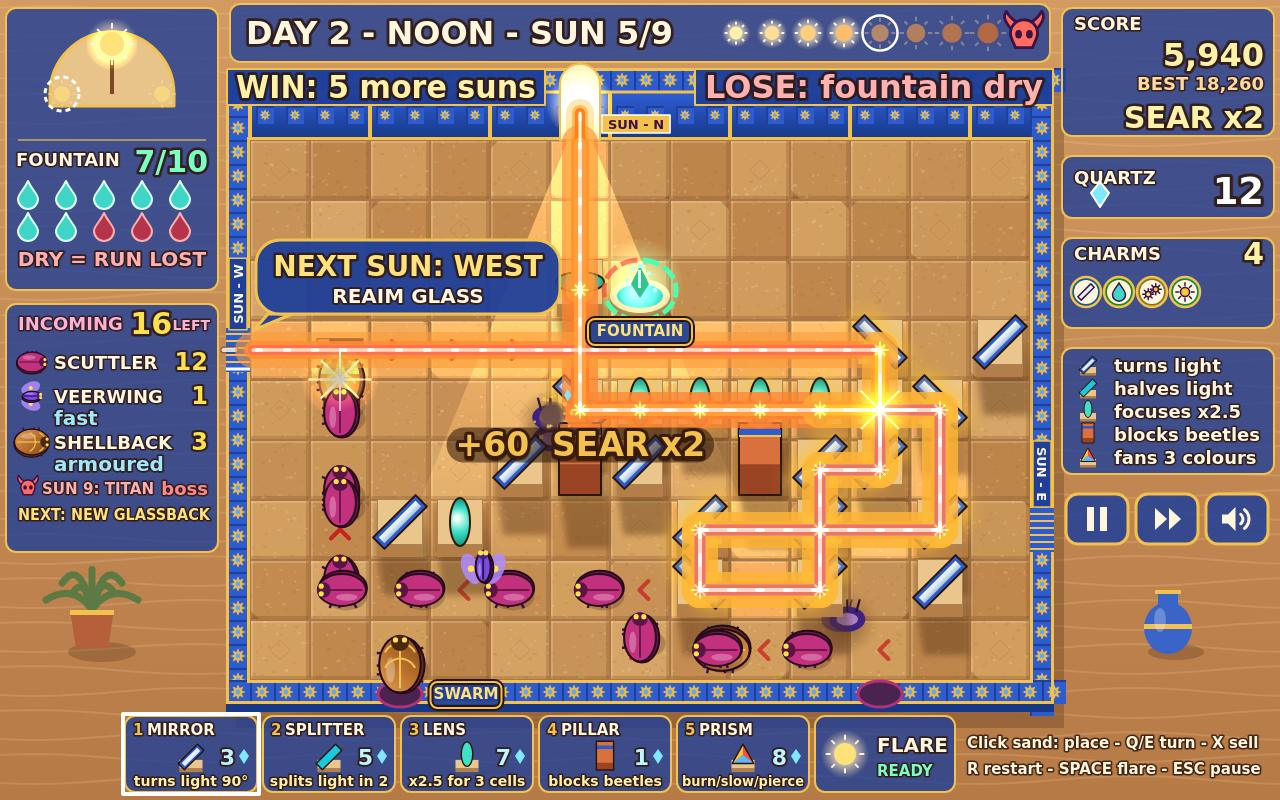
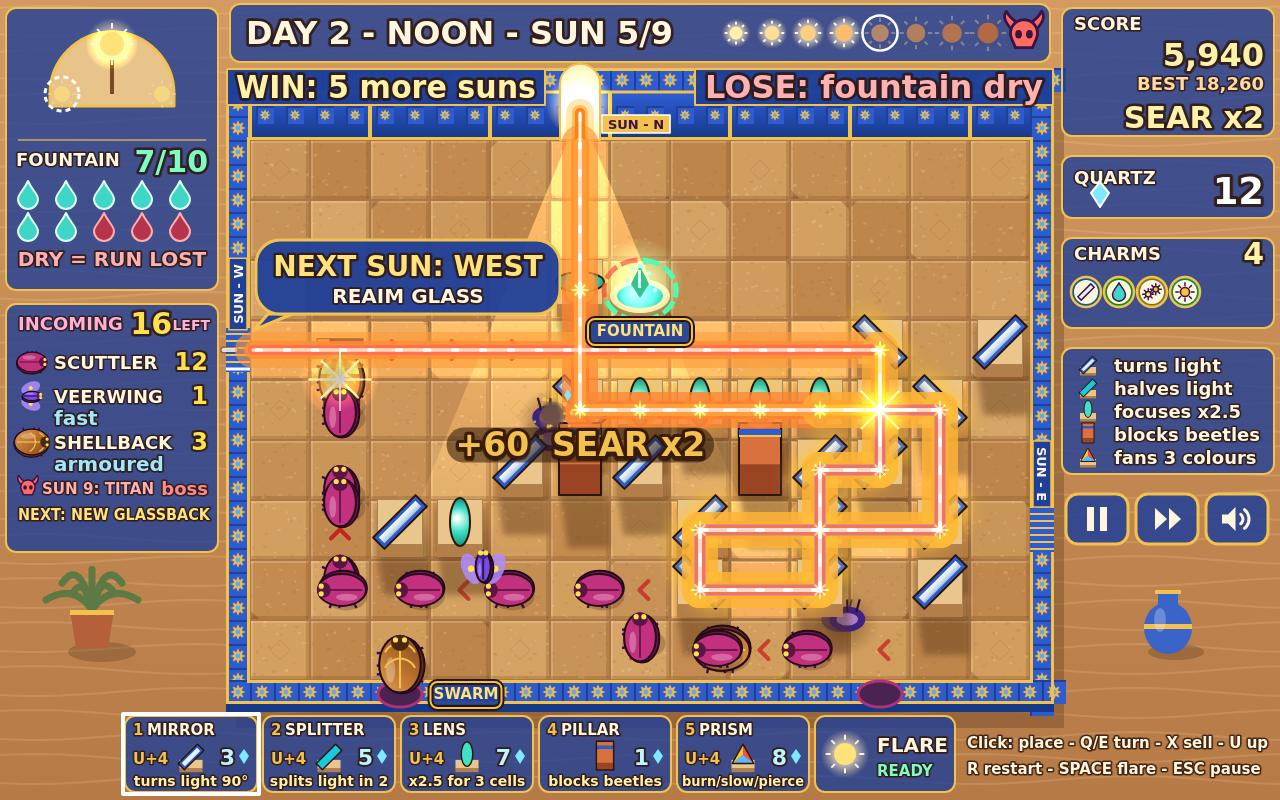
Glass upgrades: U takes a placed glass to Lv2 (4 quartz) and Lv3 (7) with real per-level beam effects; pips, card price, tooltip and key line; balance before/after in NOTES (not easier)

diff --git a/game/src/render/hud.js b/game/src/render/hud.js
@@ -2,11 +2,11 @@
 // the event banner, the 9-sun track with HOLD n MORE SUNS, the sun dial (NOW / NEXT), fountain
 // droplets with the lose rule, SEAR, score with BEST, quartz, INCOMING (with the Titan's row),
 // glass charms, the hovered piece's tooltip and keys, the event log, and the hotbar.
-import { BEAM, ENEMIES, NAMES, PIECES, PIECE_ORDER, WAVE_COUNT, enemyRuleTag } from '../config.js';
+import { BEAM, ENEMIES, NAMES, PIECES, PIECE_ORDER, UPGRADES, WAVE_COUNT, enemyRuleTag } from '../config.js';
 import { boonById } from '../draft.js';
 import { beamModsFor } from '../beams.js';
 import { chainMultiplier } from '../combat.js';
-import { enemiesRemaining, liftRefund, pieceCost, pieceUnlocked } from '../sim.js';
+import { enemiesRemaining, liftRefund, pieceCost, pieceUnlocked, upgradeCost } from '../sim.js';
 import { titanStatus, winLoseParts } from '../announce.js';
 import { sunApertureFor } from '../sun.js';
 import { nextSunPreview, waveRoster } from '../waves.js';
@@ -388,15 +388,16 @@ function drawTooltip(ctx, run, ui, y0) {
   ctx.globalAlpha = 0.85;
   drawPieceIcon(ctx, type, RIGHT_X + 30, y0 + 40);
   ctx.globalAlpha = 1;
-  text(ctx, `${PIECES[type].name}`, RIGHT_X + 58, y0 + 26, 15, GOLD, 'left', 900);
+  text(ctx, hover && hover.type !== 'pillar' ? `${PIECES[type].name} Lv${hover.level ?? 1}` : PIECES[type].name, RIGHT_X + 58, y0 + 26, 15, GOLD, 'left', 900);
   text(ctx, `${pieceCost(run, type)} ${NAMES.currency.toLowerCase()}`, RIGHT_X + 58, y0 + 46, 15, '#BDF4FF', 'left', 800);
   fitLine(ctx, PIECES[type].short, RIGHT_X + 12, y0 + 74, PANEL_W - 20, 15, INK);
+  const up = hover ? upgradeCost(hover) : null;
   const keys = hover
-    ? `${hover.type === 'pillar' ? '' : 'Q/E turn - '}X sell +${liftRefund(run, hover)}`
+    ? [`${hover.type === 'pillar' ? '' : 'Q/E turn - '}X sell +${liftRefund(run, hover)}${up !== null ? ` - U +${up}` : ''}`, `X sell +${liftRefund(run, hover)}${up !== null ? ` - U up ${up}` : ''}`]
     : `${PIECE_ORDER.indexOf(type) + 1} select - click place`;
   // A placement the rules refuse says why (e.g. "Would seal the fountain").
   if (ui.hintBad && ui.hint) fitLine(ctx, ui.hint, RIGHT_X + 12, y0 + 96, PANEL_W - 20, 15, '#FF8A8A');
-  else text(ctx, keys, RIGHT_X + 12, y0 + 96, 15, '#FFF2A8', 'left', 900);
+  else fitLine(ctx, keys, RIGHT_X + 12, y0 + 96, PANEL_W - 20, 15, '#FFF2A8');
 }
 
 
@@ -624,7 +625,7 @@ function drawSpeaker(ctx, x, y, muted, color) {
 
 /** Two short key lines beside the hotbar during a sun. */
 function drawKeyLine(ctx, x, ui) {
-  text(ctx, 'Click sand: place - Q/E turn - X sell', x, HOTBAR.y + 32, 15, INK, 'left', 800);
+  fitLine(ctx, ['Click sand: place - Q/E turn - X sell - U upgrade', 'Click: place - Q/E turn - X sell - U upgrade', 'Click: place - Q/E turn - X sell - U up', 'Click sand: place - Q/E turn - X sell'], x, HOTBAR.y + 32, 1272 - x, 15, INK);
   if (ui.restartArmed) text(ctx, 'PRESS R AGAIN TO RESTART', x, HOTBAR.y + 58, 15, '#FF8A8A', 'left', 900);
   else text(ctx, 'R restart - SPACE flare - ESC pause', x, HOTBAR.y + 58, 15, INK, 'left', 800);
 }
@@ -703,6 +704,10 @@ function drawHotbar(ctx, run, ui) {
       ctx.lineTo(x + HOTBAR.w - 18, HOTBAR.y + 40);
       ctx.closePath();
       ctx.fill();
+    }
+    // Glass upgrades with U once placed: the Lv2 price, left of the piece.
+    if (type !== 'pillar') {
+      text(ctx, `U+${UPGRADES.cost[0]}`, x + 8, HOTBAR.y + 48, 15, GOLD, 'left', 900);
     }
     ctx.save();
     ctx.translate(x + HOTBAR.w / 2, HOTBAR.y + 41);

diff --git a/game/src/beams.js b/game/src/beams.js
@@ -2,7 +2,7 @@
 // lenses, prisms and pillars. Produces the power and tint on every cell (what burns beetles),
 // the beam legs to draw, and the bounce points that get a starburst. Glassback shells stop
 // any light but gold. Loops are cut by tracking visited (cell, direction) pairs.
-import { BEAM, CHARM_FX, DX, DY } from './config.js';
+import { BEAM, CHARM_FX, DX, DY, UPGRADES } from './config.js';
 import { cellIndex, inBounds, isShrineCell, pieceAt } from './grid.js';
 
 /** Beam tints (bit flags on lit cells): plain sunlight is 0. */
@@ -31,6 +31,11 @@ export function prismFan(rot, dir) {
     { dir: rot % 2 === 0 ? left : right, tint: TINT_RED },
     { dir: rot % 2 === 0 ? right : left, tint: TINT_BLUE },
   ];
+}
+
+/** A piece's upgrade level, 1-3 (pieces from before upgrades existed are Lv1). */
+export function levelOf(piece) {
+  return piece.level ?? 1;
 }
 
 /** Light modifiers from boons: { power, bounceLoss, lensMult, lensReach, prismShare }. */
@@ -105,20 +110,20 @@ export function traceBeams(grid, aperture, mods, blockers = null) {
         if (piece.type === 'mirror') {
           bursts.push({ x: cx, y: cy, power, kind: 'mirror' });
           dir = reflectDirection(piece.rot, dir);
-          power *= 1 - mods.bounceLoss;
+          power *= 1 - mods.bounceLoss * UPGRADES.mirror.lossScale[levelOf(piece) - 1];
         } else if (piece.type === 'splitter') {
           bursts.push({ x: cx, y: cy, power, kind: 'splitter' });
           const turned = reflectDirection(piece.rot, dir);
-          power *= 0.5;
+          power *= UPGRADES.splitter.half[levelOf(piece) - 1];
           rays.push({ c: c + DX[turned], r: r + DY[turned], dir: turned, power, focus, tint, x: cx, y: cy });
         } else if (piece.type === 'lens') {
           bursts.push({ x: cx, y: cy, power: power * 0.6, kind: 'lens' });
-          power *= mods.lensMult;
+          power *= mods.lensMult + UPGRADES.lens.multAdd[levelOf(piece) - 1];
           focus = mods.lensReach + 1;
         } else if (piece.type === 'prism') {
           bursts.push({ x: cx, y: cy, power, kind: 'prism' });
           const fan = prismFan(piece.rot, dir);
-          power *= mods.prismShare;
+          power *= Math.min(0.95, mods.prismShare + UPGRADES.prism.shareAdd[levelOf(piece) - 1]);
           for (const branch of fan.slice(1)) rays.push({ c: c + DX[branch.dir], r: r + DY[branch.dir], dir: branch.dir, power, focus: 0, tint: branch.tint, x: cx, y: cy });
           tint = TINT_GOLD;
           focus = 0;

diff --git a/game/src/sim.js b/game/src/sim.js
@@ -1,8 +1,8 @@
 // The run state and its fixed-step update. Input never touches this state directly: it queues
 // orders, and stepSim applies them at the start of the next 60 Hz tick, then advances the phase
 // machine build -> wave -> draft -> build ... -> won | lost.
-import { BEAM, CHARM_FX, DIFFICULTIES, FEATS, DT, ECONOMY, FLARE_CHARGES, FOUNTAIN_MAX, PIECES, WAVE_COUNT } from './config.js';
-import { beamModsFor, traceBeams } from './beams.js';
+import { BEAM, CHARM_FX, DIFFICULTIES, FEATS, DT, ECONOMY, FLARE_CHARGES, FOUNTAIN_MAX, PIECES, UPGRADES, WAVE_COUNT } from './config.js';
+import { beamModsFor, levelOf, traceBeams } from './beams.js';
 import { sunApertureFor } from './sun.js';
 import { moveEnemies, shellBlockers, spawnEnemy } from './enemies.js';
 import { buildWaveSchedule } from './waves.js';
@@ -78,6 +78,12 @@ export function pieceCost(run, type) {
 }
 
 /** Quartz returned when lifting a piece: all of it if placed this build phase, else half. */
+/** The price of a placed piece's next level, or null (pillars and Lv3 glass cannot upgrade). */
+export function upgradeCost(piece) {
+  if (!piece || piece.type === 'pillar' || levelOf(piece) >= 3) return null;
+  return UPGRADES.cost[levelOf(piece) - 1];
+}
+
 export function liftRefund(run, piece) {
   return piece.placedWave === run.waveIndex ? piece.paid : Math.floor(piece.paid * ECONOMY.oldPieceRefund);
 }
@@ -125,6 +131,21 @@ function applyOrder(run, order) {
       run.flow = buildFlowField(run.grid);
       refreshLight(run);
       emit(run, { type: 'lifted', c: order.c, r: order.r });
+      return;
+    }
+    case 'upgrade': {
+      const piece = pieceAt(run.grid, order.c, order.r);
+      const cost = upgradeCost(piece);
+      if (cost === null || !(building || run.phase === 'wave')) return;
+      if (run.quartz < cost) {
+        emit(run, { type: 'denied', c: order.c, r: order.r, reason: 'Not enough quartz' });
+        return;
+      }
+      run.quartz -= cost;
+      piece.level = levelOf(piece) + 1;
+      piece.paid += cost;
+      refreshLight(run);
+      emit(run, { type: 'upgraded', c: order.c, r: order.r, level: piece.level });
       return;
     }
     case 'startWave':

diff --git a/game/index.html b/game/index.html
@@ -45,7 +45,7 @@
     <div class="sheet">
       <h2>HOW TO PLAY</h2>
       <div class="howto-cols">
-        <div><h3>1. BUILD</h3><canvas class="howto-pic" width="240" height="120" data-pic="build"></canvas><p>Spend quartz on glass. <b>1</b> Mirror bounces light, <b>2</b> Splitter halves it both ways, <b>3</b> Lens focuses x2.5 for 3 cells, <b>4</b> Pillar blocks beetles, <b>5</b> Prism (day 2) fans red burn, blue slow, gold pierce. Click to place, <b>Q/E</b> or wheel to turn, right-click or <b>X</b> to sell. You can never wall off the Sun Fountain.</p></div>
+        <div><h3>1. BUILD</h3><canvas class="howto-pic" width="240" height="120" data-pic="build"></canvas><p>Spend quartz on glass. <b>1</b> Mirror bounces light, <b>2</b> Splitter halves it both ways, <b>3</b> Lens focuses x2.5 for 3 cells, <b>4</b> Pillar blocks beetles, <b>5</b> Prism (day 2) fans red burn, blue slow, gold pierce. Click to place, <b>Q/E</b> or wheel to turn, right-click or <b>X</b> to sell, <b>U</b> to upgrade a placed glass (Lv2 4 quartz, Lv3 7: stronger effect). You can never wall off the Sun Fountain.</p></div>
         <div><h3>2. BURN</h3><canvas class="howto-pic" width="240" height="120" data-pic="burn"></canvas><p>Press <b>ENTER</b>. Sunlight pours through the lit window and follows your glass. Beetles on lit cells burn. Turn glass live to chase the swarm. <b>SPACE</b> fires a Flare: double power for 3 s. Quick kills build a SEAR multiplier.</p></div>
         <div><h3>3. ADAPT</h3><canvas class="howto-pic" width="240" height="120" data-pic="adapt"></canvas><p>After each sun pick 1 of 3 glass charms. The sun moves every wave - morning east, noon north, evening west - so plan for the NEXT window on the sun dial. Shellbacks shrug off weak light: focus it. Glassback shells stop every beam but gold.</p></div>
       </div>

diff --git a/game/src/render/board.js b/game/src/render/board.js
@@ -648,6 +648,7 @@ export function drawPieces(ctx, grid, shadow, time, lit = null, next = null) {
       if (!p) continue;
       const litNow = !!lit && lit[i] > 0 && p.type !== 'pillar';
       drawPiece(ctx, p, c, r, shadow, time, 1, litNow);
+      drawLevelPips(ctx, p, c, r);
       if (!lit || p.type === 'pillar' || litNow) continue;
       const x = BOARD_X + c * CELL;
       const y = BOARD_Y + r * CELL;
@@ -667,6 +668,28 @@ export function drawPieces(ctx, grid, shadow, time, lit = null, next = null) {
         ctx.fillText(next.wall, x + CELL - 10, y + 15);
       }
     }
+  }
+}
+
+/** Upgraded glass (Lv2, Lv3) shows that many gold pips along its plinth's front. */
+export function drawLevelPips(ctx, piece, c, r) {
+  const level = piece.level ?? 1;
+  if (level < 2) return;
+  const cx = BOARD_X + c * CELL + CELL / 2;
+  const y = BOARD_Y + r * CELL + CELL - 8;
+  for (let k = 0; k < level; k++) {
+    const x = cx + (k - (level - 1) / 2) * 12;
+    ctx.fillStyle = PALETTE.gold;
+    ctx.strokeStyle = '#2A1608';
+    ctx.lineWidth = 2;
+    ctx.beginPath();
+    ctx.moveTo(x, y - 6);
+    ctx.lineTo(x + 5, y);
+    ctx.lineTo(x, y + 6);
+    ctx.lineTo(x - 5, y);
+    ctx.closePath();
+    ctx.fill();
+    ctx.stroke();
   }
 }
 

diff --git a/game/src/config.js b/game/src/config.js
@@ -146,6 +146,18 @@ export const DIFFICULTY_ORDER = ['gentle', 'normal', 'scorched'];
 /** The Sun Fountain always holds 10 HP; the run is lost when it runs dry. */
 export const FOUNTAIN_MAX = 10;
 
+/**
+ * Glass upgrades: a placed glass piece goes Lv1 -> Lv2 -> Lv3 for quartz (pillars do not upgrade).
+ * cost[k]: price of level k+2. Per level: the mirror's bounce loss is scaled (x1, x0.5, none), each
+ * splitter half keeps more light, the lens focuses harder, the prism's side branches keep more light.
+ */
+export const UPGRADES = {
+  cost: [4, 7],
+  mirror: { lossScale: [1, 0.5, 0] },
+  splitter: { half: [0.5, 0.55, 0.6] },
+  lens: { multAdd: [0, 0.3, 0.6] },
+  prism: { shareAdd: [0, 0.1, 0.2] },
+};
 export const ECONOMY = { waveQuartz: 5, waveQuartzPerWave: 1, rerollCost: 3, oldPieceRefund: 0.5 };
 export const SCORING = { perShrineHp: 50, waveClear: 100, chainWindow: 1, chainMaxMult: 5 };
 /** A won run's rank: the best tier whose score, fountain left and Titan burn time it all meets (else C). */

diff --git a/game/src/main.js b/game/src/main.js
@@ -107,6 +107,12 @@ function liftAtHover() {
   if (cell && pieceAt(app.run.grid, cell.c, cell.r)) order({ type: 'lift', c: cell.c, r: cell.r });
 }
 
+/** U: upgrade the glass under the mouse to its next level (price shown on its card and tooltip). */
+function upgradeAtHover() {
+  const cell = app.ui.hoverCell;
+  if (cell && pieceAt(app.run.grid, cell.c, cell.r)) order({ type: 'upgrade', c: cell.c, r: cell.r });
+}
+
 function selectPiece(type) {
   app.ui.selected = type;
   playSfx('click');
@@ -180,6 +186,7 @@ function handleKeyInPlay(code) {
   }
   if (digit >= 1 && digit <= PIECE_ORDER.length) selectPiece(PIECE_ORDER[digit - 1]);
   else if (code === 'KeyX') liftAtHover();
+  else if (code === 'KeyU') upgradeAtHover();
   else if (code === 'KeyQ') rotateAtHover(-1);
   else if (code === 'KeyE') rotateAtHover(1);
   else if (code === 'Space') order({ type: run.phase === 'wave' ? 'flare' : 'startWave' });

diff --git a/game/src/testhook.js b/game/src/testhook.js
@@ -225,6 +225,7 @@ export function installTestHook(app, api) {
         banner: currentBanner(run),
         bannerBox: bannerBox(run),
         frieze: lastFrieze(),
+        upgraded: run.grid.pieces.map((p, i) => (p && (p.level ?? 1) > 1 ? `${i % run.grid.cols},${Math.floor(i / run.grid.cols)}:Lv${p.level}` : null)).filter(Boolean).join(' '),
         titanBar: lastTitanBar(),
         headline: winLoseHeadline(run),
         log: run.log.join(' | '),

diff --git a/NOTES.md b/NOTES.md
@@ -417,6 +417,19 @@
   Open: a Titan frame would make a strong 5th shot but the sheet takes exactly 4; the cover now shows
   one popup (+60 SEAR x2) because the +20 that covered a Scuttler is no longer placed there.
 
+- Glass upgrades (operator 03:32Z, "visible scale"): U on a placed glass piece upgrades it Lv1 -> Lv2
+  (4 quartz) -> Lv3 (7) (config UPGRADES; pillars do not upgrade; the price joins what selling refunds).
+  Per level, in beams.js: mirror bounce loss x1 / x0.5 / none; splitter halves keep 50 / 55 / 60%;
+  lens focus +0 / +0.3 / +0.6 (x2.5 -> x2.8 -> x3.1); prism side branches +0 / +10 / +20% light (cap 95%).
+  Upgraded pieces show 2 or 3 gold pips on the plinth (Lv1 shows none, to keep the board calm); build
+  cards show `U+4`, the tooltip `... - U +4` and `LENS Lv2`, the key line `U up`, How to play explains it.
+  Balance, 40 seeds per difficulty (tools/balance.mjs 40 <bot>): greedy (never upgrades) before
+  6 / 2 / 2 wins (gentle / normal / scorched), after 6 / 2 / 2 (unchanged); greedy-up (spends leftover
+  quartz on the best upgrade) 3 / 3 / 2. Not easier, so costs stay 4 / 7.
+  Staging: any upgrade during seed 2013's sun 5 (one Lv2 or Lv2+Lv3, at any tick 4400-4780) makes the
+  run lose later (it is a rare greedy-bot win); STAGE_UPGRADES=1 (+ STAGE_UPGRADE_TICK / _COUNT) keeps
+  that experiment; off by default, so the cover has no upgraded glass yet.
+
 ## Next
 - READY FOR A/B (01:00 UTC): bold beams + the three cues on top of 61673e1 (FEATS, GLASS legend,
   INCOMING tags, HUD buttons, SUNSTONE chip, title rules table kept). Verified on the final state:
